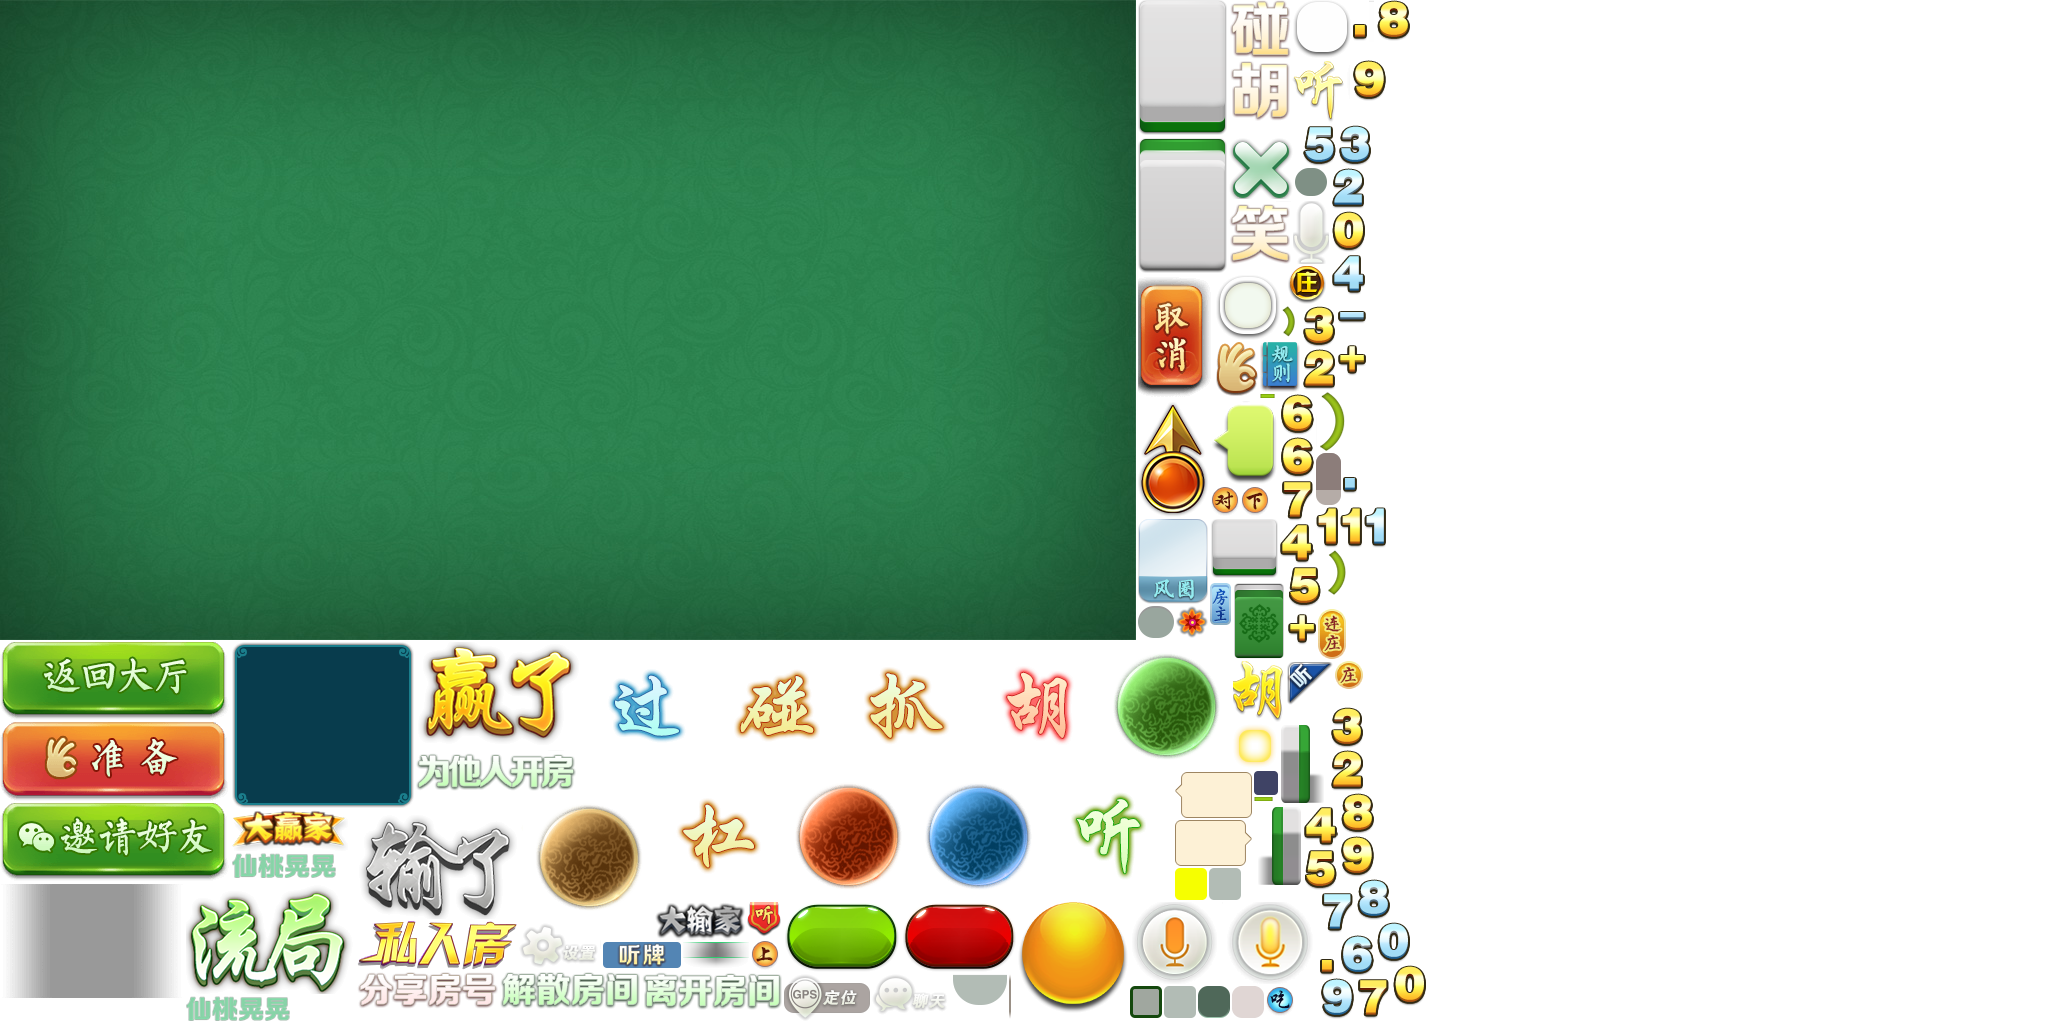
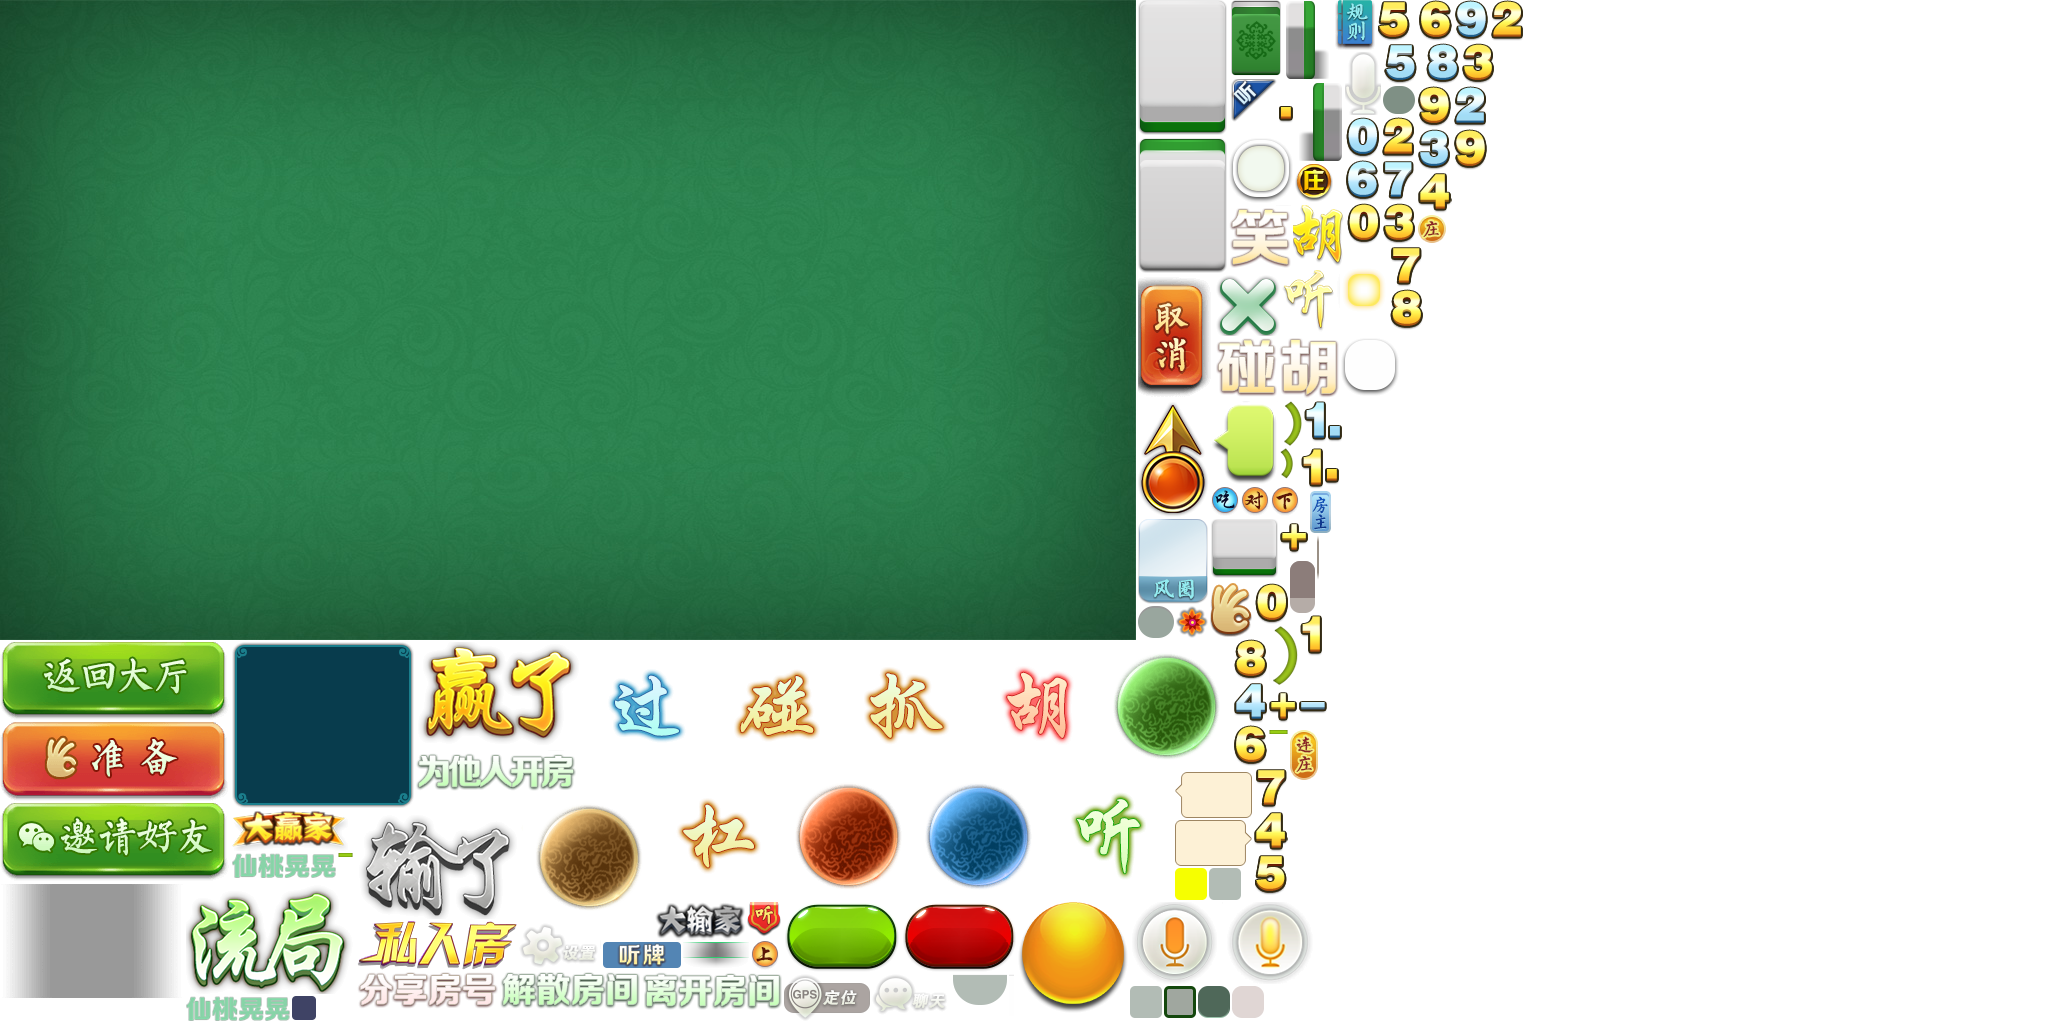
准备页面调整

Changed region(s): [[0.5625, 0.0, 0.75, 1.0], [0.125, 0.9688, 0.1562, 1.0]]

diff --git a/assets/Script/modules/gameb/ReadyView.ts b/assets/Script/modules/gameb/ReadyView.ts
@@ -34,11 +34,9 @@ export class DisBandPlayerInfo {
 /**
  * 解散页面
  */
-export class ReadyView extends cc.Component {
+export class ReadyView {
 
     private view: fgui.GComponent;
-
-    private win: fgui.Window;
 
     private leaveBtn: fgui.GButton;
     private forOtherBtn: fgui.GButton;
@@ -60,38 +58,33 @@ export class ReadyView extends cc.Component {
     private anteText: fgui.GObject;
     private tips: fgui.GObject;
     private originPositions: cc.Vec2[] = [];
-    public showReadyView(roomHost: RoomHost): void {
+
+    public showReadyView(roomHost: RoomHost, view: fgui.GComponent): void {
         this.host = roomHost;
-        if (this.view === null || this.view === undefined) {
-            const view = fgui.UIPackage.createObject("dafeng", "ready").asCom;
 
-            CommonFunction.setViewInCenter(view);
-
-            const bg = view.getChild("bg");
-            CommonFunction.setBgFullScreenSize(bg);
-
-            roomHost.eventTarget.once("onDeal", this.onDeal, this);
-            roomHost.eventTarget.once("leave", this.onLeave, this);
-
+        if (view !== null) {
             this.view = view;
-            const win = new fgui.Window();
-            win.contentPane = view;
-            win.modal = true;
-
-            this.win = win;
-
-            this.win.show();
-
-            this.initView();
         }
+
+        const bg = view.getChild("bg");
+        CommonFunction.setBgFullScreenSize(bg);
+
+        roomHost.eventTarget.once("onDeal", this.onDeal, this);
+        roomHost.eventTarget.once("leave", this.onLeave, this);
+        this.view.visible = true;
+
+        this.initView();
+
     }
 
-    public updateReadyView(roomHost: RoomHost, table: protoHH.casino.Itable, ps?: protoHH.casino.Itable_player[]): void {
+    public updateReadyView(roomHost: RoomHost, table: protoHH.casino.Itable
+        // tslint:disable-next-line:align
+        , view: fgui.GComponent, ps?: protoHH.casino.Itable_player[]): void {
         // 注意：table中的playrs不是最新的，新的player通过参数传进来
         // 后面可以分开或者抽取出来
         this.table = table;
         if (this.view === null || this.view === undefined) {
-            this.showReadyView(roomHost);
+            this.showReadyView(roomHost, view);
         }
 
         let players = ps;
@@ -101,10 +94,6 @@ export class ReadyView extends cc.Component {
 
         this.updateView(players);
 
-    }
-
-    protected onLoad(): void {
-        // this.eventTarget = new cc.EventTarget();
     }
 
     protected updateView(players: protoHH.casino.Itable_player[]): void {
@@ -183,13 +172,15 @@ export class ReadyView extends cc.Component {
         this.tips = this.view.getChild("tips");
 
         // 10 分钟后自动解散房间
-        this.scheduleOnce(this.schedule2DisbandRoom, 10 * 60);
+        //this.scheduleOnce(this.schedule2DisbandRoom, 10 * 60);
+
+        this.host.component.scheduleOnce(this.schedule2DisbandRoom, 10 * 60);
+
     }
 
-    protected onDestroy(): void {
-        this.view.dispose();
-        this.win.hide();
-        this.win.dispose();
+    protected onHide(): void {
+        this.view.visible = false;
+        this.host.component.unschedule(this.schedule2DisbandRoom);
     }
 
     private onLeaveRoomBtnClick(): void {
@@ -236,13 +227,13 @@ export class ReadyView extends cc.Component {
     }
 
     private onDeal(): void {
-        this.destroy();
+        this.onHide();
     }
 
     // 自己退出房间
     private onLeave(): void {
         this.host.quit();
-        this.destroy();
+        this.onHide();
     }
 
     private disbandRoom(): void {

diff --git a/assets/Script/modules/gameb/RoomView.ts b/assets/Script/modules/gameb/RoomView.ts
@@ -67,6 +67,7 @@ export class RoomView {
     private readonly moveDistance: number = 50;
 
     private lastRecordTime: number = 0;
+    private readyView: ReadyView;
 
     public constructor(room: RoomInterface, view: fgui.GComponent) {
         this.room = room;
@@ -365,14 +366,20 @@ export class RoomView {
     }
 
     public updateReadyView(table: protoHH.casino.Itable, players?: protoHH.casino.Itable_player[]): void {
-        let readyView = this.component.getComponent(ReadyView);
-        if (readyView === undefined || readyView == null) {
-            readyView = this.component.addComponent(ReadyView);
+        // let readyView = this.component.getComponent(ReadyView);
+        // if (readyView === undefined || readyView == null) {
+        //     readyView = this.component.addComponent(ReadyView);
+        // }
+
+        const view = this.unityViewNode.getChild("readyView").asCom;
+
+        if (this.readyView === undefined || this.readyView === null) {
+            this.readyView = new ReadyView();
         }
 
         // const load = this.room.getRoomHost().getLobbyModuleLoader();
         const roomHost = this.room.getRoomHost();
-        readyView.updateReadyView(roomHost, table, players);
+        this.readyView.updateReadyView(roomHost, table, view, players);
     }
 
     public showOrHideCancelCom(isShow: boolean, str: string): void {

diff --git a/assets/Script/modules/lobby/views/LobbyView.ts b/assets/Script/modules/lobby/views/LobbyView.ts
@@ -26,7 +26,7 @@ export class LobbyView extends cc.Component {
 
     private marqueeAction: cc.Action = null;
 
-    private marqueeTimer: number = null;
+    //private marqueeTimer: number = null;
 
     private isReconnect: boolean = false;
 
